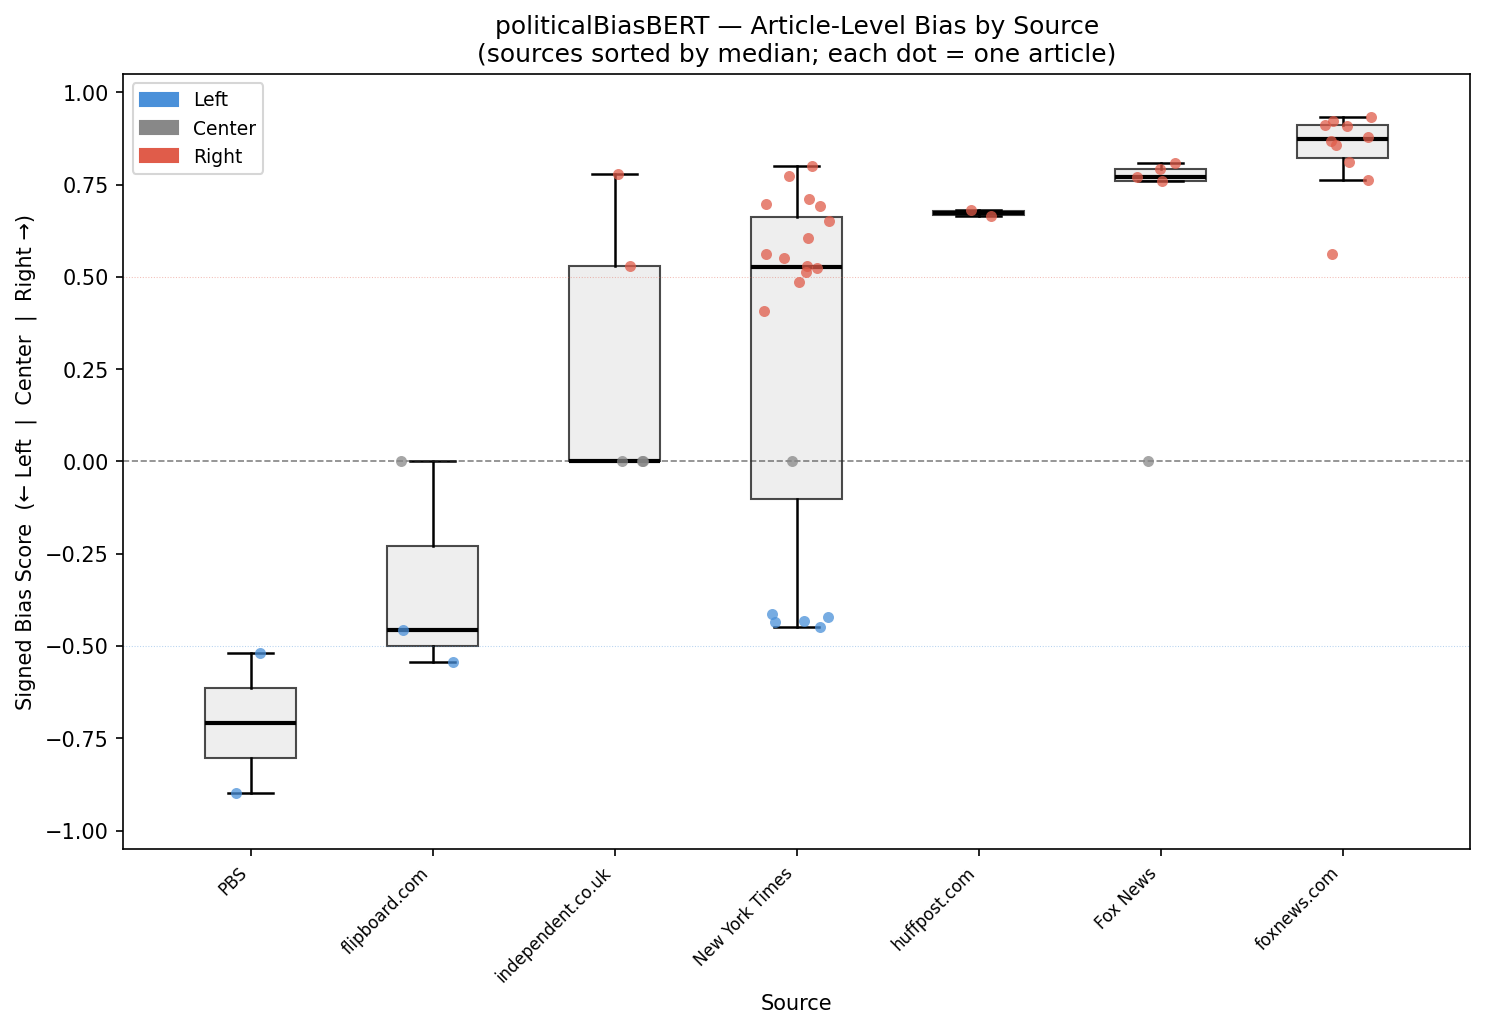
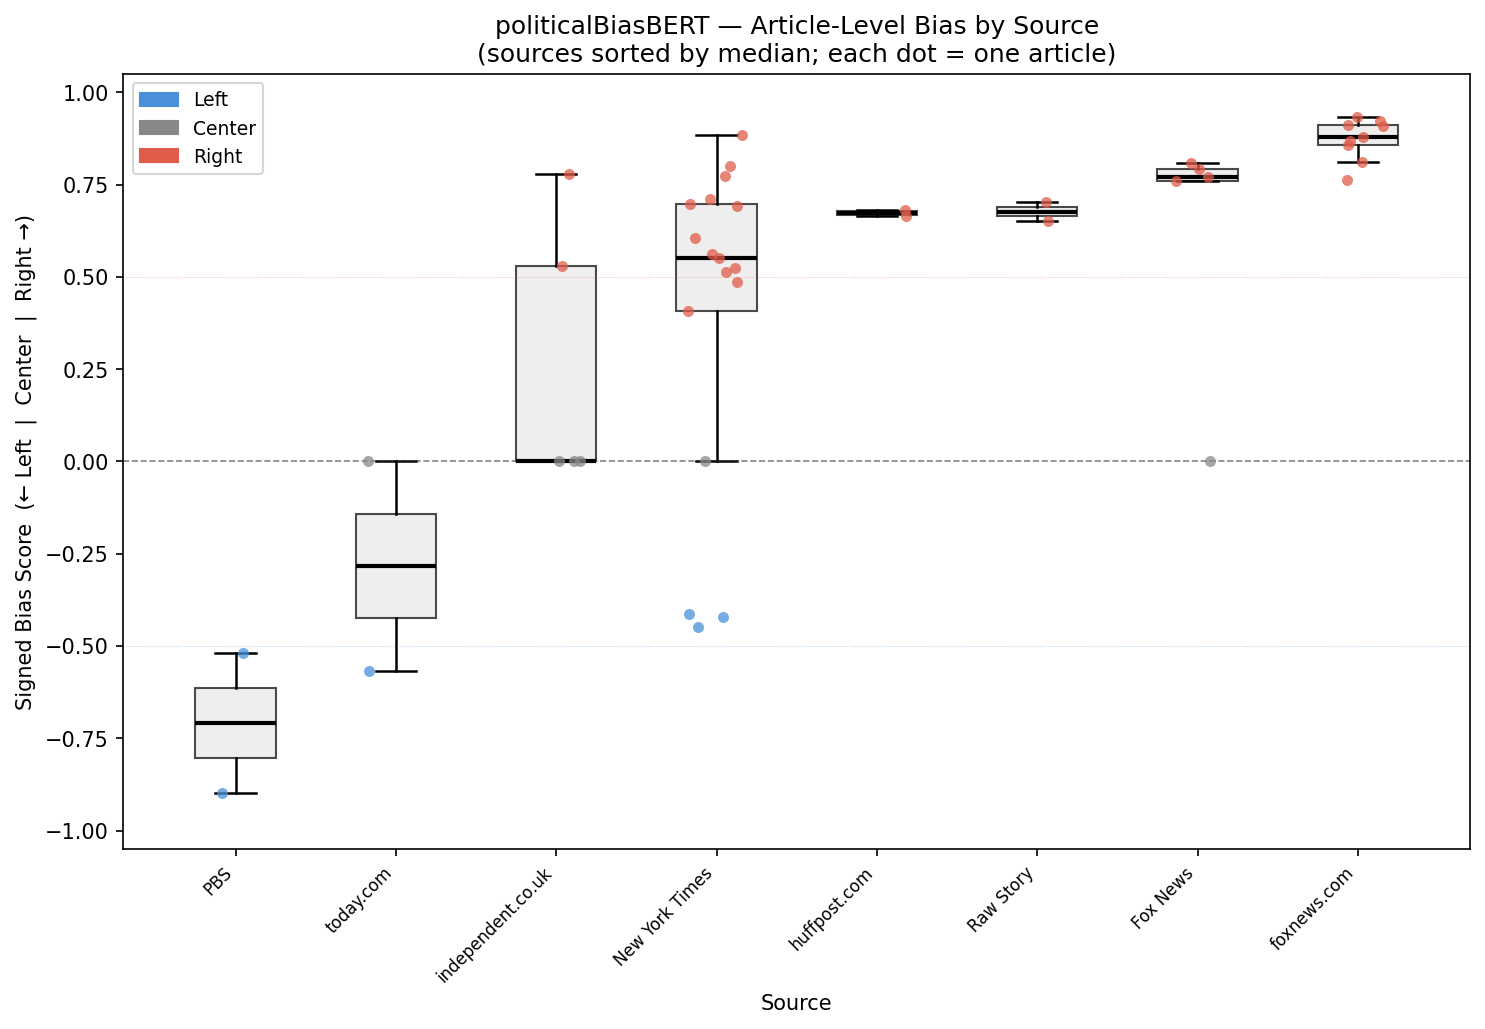
Add bias analysis script and update dependencies
- Introduced bias_by_source.py for running politicalBiasBERT and visualizing bias distributions.
- Updated story_clustering.py to import scrape_all from webscraper.text_utils.
- Removed deprecated text_utils.py.
- Updated bias_by_source.png visualization.

diff --git a/data_analysis_nlp/bias_by_source.py b/data_analysis_nlp/bias_by_source.py
@@ -16,6 +16,7 @@ Saves:
 Run from repo root: python experiments/bias_by_source.py
 """
 
+import argparse
 import json
 import os
 import sys
@@ -222,6 +223,10 @@ def plot_bias_by_source(results: dict[str, dict], out_dir: str) -> None:
 
 
 def main() -> None:
+    parser = argparse.ArgumentParser(description="Run politicalBiasBERT bias analysis by source.")
+    parser.add_argument("--plot", action="store_true", help="Generate the bias plot.")
+    args = parser.parse_args()
+
     for path, label in [
         (ARTICLES_PATH, "articles.json"),
         (SCRAPED_TEXT_PATH, "scraped_text.json"),
@@ -252,8 +257,9 @@ def main() -> None:
     print(f"\nLabel distribution: {dict(label_counts)}")
     print(f"Sources: {len(src_counts)}  (top 5: {dict(src_counts.most_common(5))})")
 
-    print("\nGenerating plot...")
-    plot_bias_by_source(results, OUT_DIR)
+    if args.plot:
+        print("\nGenerating plot...")
+        plot_bias_by_source(results, OUT_DIR)
     print("Done.")
 
 

diff --git a/experiments/story_clustering.py b/experiments/story_clustering.py
@@ -47,7 +47,7 @@ def main() -> None:
             "Install with: pip install sentence-transformers hdbscan"
         )
 
-    from experiments.text_utils import scrape_all
+    from webscraper.text_utils import scrape_all
 
     with open(ARTICLES_PATH, "r", encoding="utf-8") as f:
         articles = json.load(f)
